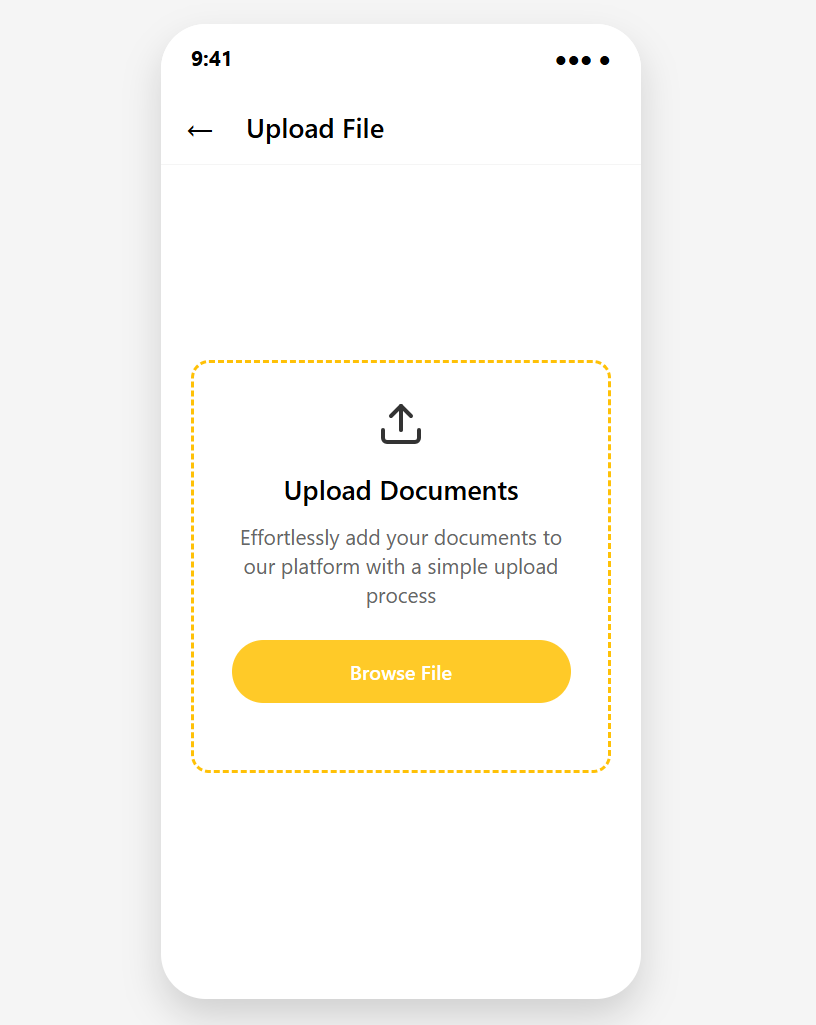
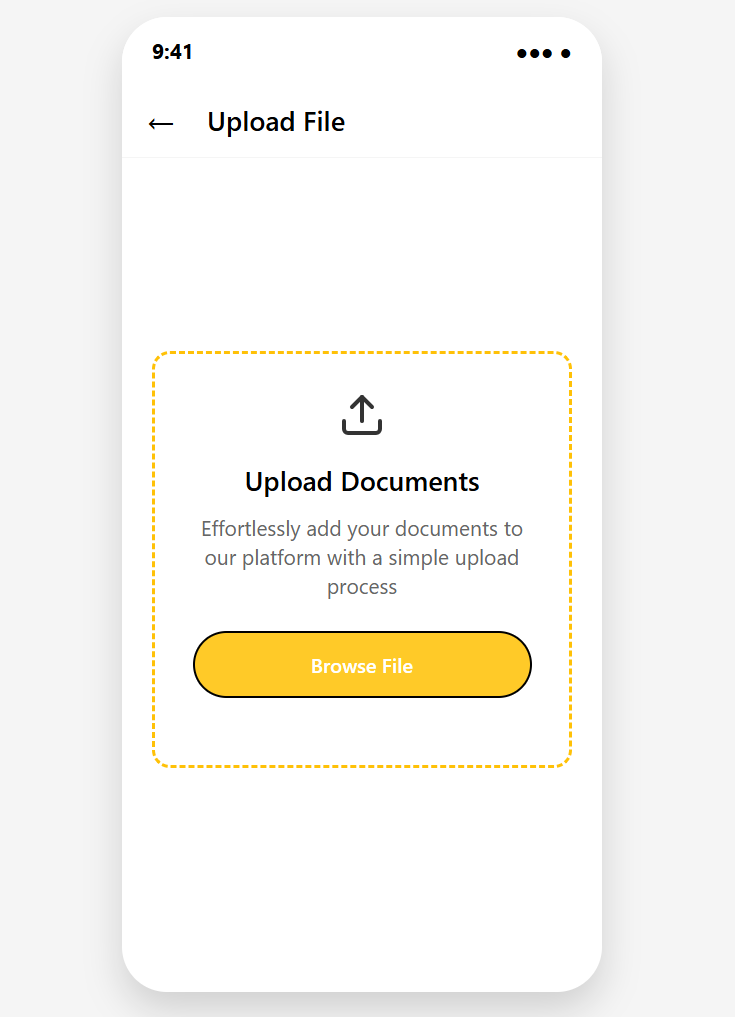
docs: melhora documentacao

diff --git a/style.css b/style.css
@@ -148,6 +148,7 @@ body {
     width: 100%;
     cursor: pointer;
     transition: background-color 0.3s;
+    border: #000000 1.5px solid;
 }
 
 .browse-button:hover {

diff --git a/README.md b/README.md
@@ -7,7 +7,13 @@
 - **Figma**: [link](https://www.figma.com/design/vEPaSjNyr75EEWLHrZxs0J/Ponderada?node-id=0-1&t=gNR9164SVtvJCgae-1)
 
 ## 📝 Relato
-&emsp; O componente foi desenolvoldido usando html, css e javascript. Além disso, a codificação foi feita com base na prototipação do figma, uma das diversas funcionalidade que ajudaram no processo de codificação foi o Dev Mode, que ajudou nas medidas, estilização e estrutura do codigo, é importante frisar que por mais que tenham sido usadas as medidas corretas, não foi possivel fazer uma copia perfeita, dado que alguns dos elementos visuais não tinham compatibilidade na codigo, por isso foram adaptados. 
+&emsp;  O componente foi desenvolvido usando HTML, CSS e JavaScript. Além disso, a codificação foi feita com base na prototipação do Figma. Uma das diversas funcionalidades que ajudaram no processo de codificação foi o Dev Mode, que auxiliou nas medidas, na estilização e na estrutura do código, e o Auto Layout, que permitiu que o protótipo ficasse proporcional.
+
+&emsp; É importante frisar que, por mais que tenham sido usadas as medidas corretas, não foi possível fazer uma cópia perfeita, já que alguns dos elementos visuais não eram compatíveis com o código e, por isso, foram adaptados.
+
+&emsp;  A estrutura de codificação inicial foi feita com o auxílio de IAs. Posteriormente, muitos dos detalhes, como cores, proporções, fontes e medidas, foram ajustados diretamente no código com base no que foi definido no Figma.
+
+- Imagem da prototipação do figma: 
 
 <div align="center">
 <sub>Figura 1 - Prototipação no figma </sub>
@@ -15,9 +21,39 @@
 <sup>Fonte: Material produzido pela autora (2025)</sup>
 </div>
 
+- Imagem de produto codificado: 
+
 <div align="center">
-<sub>Figura 1 - produto codificado </sub>
+<sub>Figura 2 - Produto codificado </sub>
 <img src="assets/tela-programada.png"  width="100%">
 <sup>Fonte: Material produzido pela autora (2025)</sup>
 </div>
 
+## 📝 Guia de visualização
+
+Para acessar a tela, é necessario seguir o passo a passo a seguir:
+
+
+- 1. Baixar a extensão live server
+
+<div align="center">
+<sub> Figura 3 - Live server </sub>
+<img src="assets/live-server.png"  width="900%">
+<sup>Fonte: Material produzido pela autora (2025)</sup>
+</div>
+
+- 2. Acessar o index.html e apertar o botão direito do mouse
+
+<div align="center">
+<sub> Figura 4 - Live server </sub>
+<img src="assets/live-server.png"  width="900%">
+<sup>Fonte: Material produzido pela autora (2025)</sup>
+</div>
+
+- 3. Acessar o "Open with live server"
+
+- 4. Selecionar um arquivo e testar o componente
+
+### Revisão
+
+&emsp; A revisão dos textos e código foi feita com auxilio de IAs: [DeepSeek](https://chat.deepseek.com/) e [Claude.ai](https://claude.ai)
